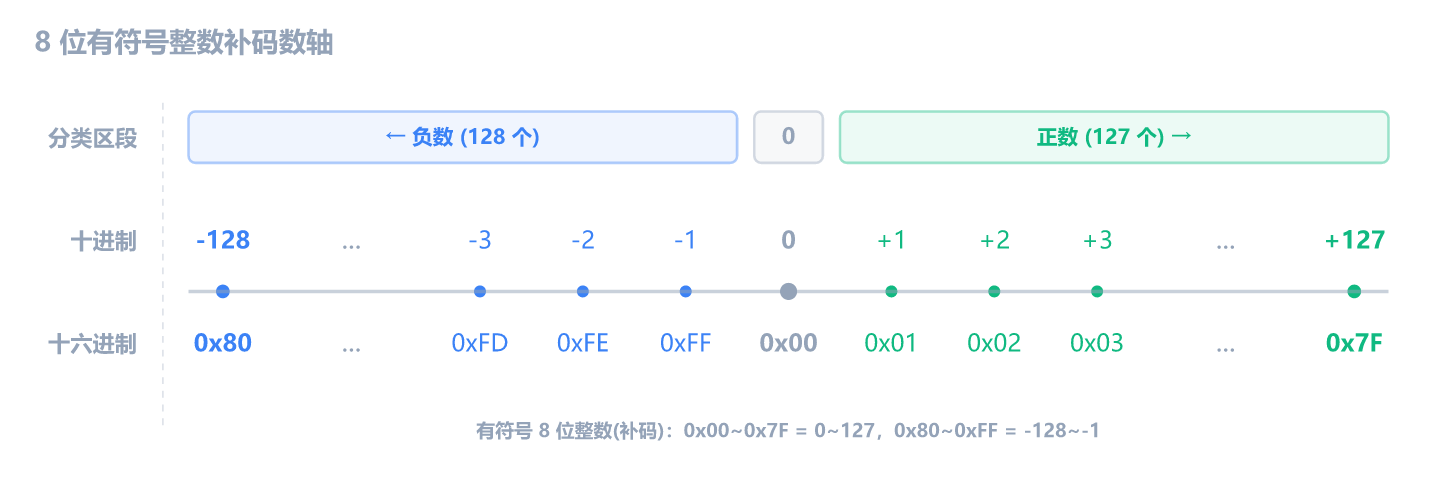
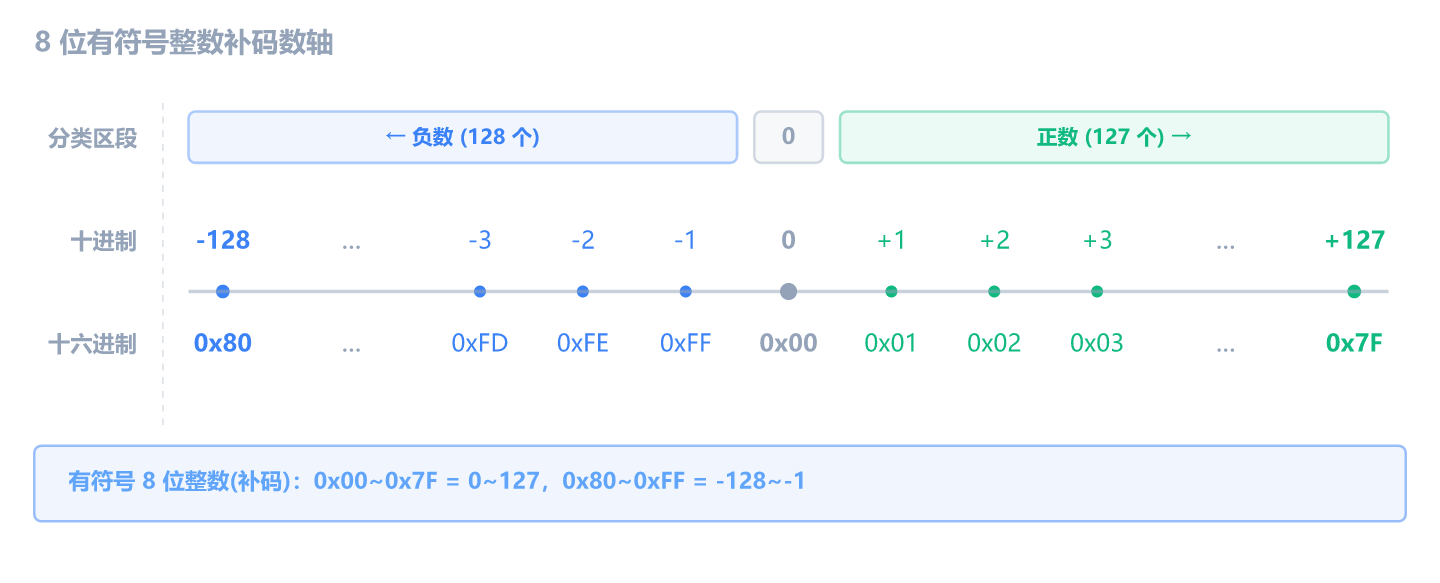
style: unify ch2 SVG bottom summary style with blue/yellow boxes

diff --git a/src/data/books/reverse-engineering/getting-started/asm-navigation.md b/src/data/books/reverse-engineering/getting-started/asm-navigation.md
@@ -119,11 +119,11 @@ mov      eax,       1
 
 x64dbg 有好几个窗口可以显示内存内容，同一个地址可以在不同窗口之间跳转：
 
-| 窗口     | 显示什么                | 怎么跳转                                                        |
-| -------- | ----------------------- | --------------------------------------------------------------- |
-| CPU 窗口 | 机器码反汇编成汇编指令  | 直接就在这，最常用的窗口                                        |
+| 窗口     | 显示什么                | 怎么跳转                                                                              |
+| -------- | ----------------------- | ------------------------------------------------------------------------------------- |
+| CPU 窗口 | 机器码反汇编成汇编指令  | 直接就在这，最常用的窗口                                                              |
 | 内存窗口 | 原始十六进制字节        | 在地址上右键 -> Follow in Memory / 在内存窗口按 <kbd>Ctrl</kbd>+<kbd>G</kbd> 输入地址 |
-| 堆栈窗口 | 以 ESP 为基准显示栈内容 | 在 ESP 寄存器上右键 -> Follow in Stack                          |
+| 堆栈窗口 | 以 ESP 为基准显示栈内容 | 在 ESP 寄存器上右键 -> Follow in Stack                                                |
 
 **实操试试**：在 CPU 窗口随便点击一行指令，看一下它的地址（比如 `00401000`）。然后切换到内存窗口，按 <kbd>Ctrl</kbd>+<kbd>G</kbd>，输入同一个地址，你会看到这行指令的机器码字节就躺在那。
 

diff --git a/src/data/books/reverse-engineering/getting-started/number-basics.md b/src/data/books/reverse-engineering/getting-started/number-basics.md
@@ -118,11 +118,11 @@ order: 2
 
 上面用 8 位讲的原理，对 16 位和 32 位完全一样—只是位数多了，范围更大：
 
-| 位数 | 最大无符号值 | 无符号范围         | 最大正数     | 最小负数     | 有符号范围                   |
-| ---- | ------------ | ------------------ | ------------ | ------------ | ---------------------------- |
-| 8    | `0xFF`       | `0 ~ 255`          | `0x7F`       | `0x80`       | `-128 ~ +127`                |
-| 16   | `0xFFFF`     | `0 ~ 65,535`       | `0x7FFF`     | `0x8000`     | `-32,768 ~ +32,767`          |
-| 32   | `0xFFFFFFFF` | `0 ~ 4,294,967,295`| `0x7FFFFFFF` | `0x80000000` | `-2,147,483,648 ~ +2,147,483,647` |
+| 位数 | 最大无符号值 | 无符号范围          | 最大正数     | 最小负数     | 有符号范围                        |
+| ---- | ------------ | ------------------- | ------------ | ------------ | --------------------------------- |
+| 8    | `0xFF`       | `0 ~ 255`           | `0x7F`       | `0x80`       | `-128 ~ +127`                     |
+| 16   | `0xFFFF`     | `0 ~ 65,535`        | `0x7FFF`     | `0x8000`     | `-32,768 ~ +32,767`               |
+| 32   | `0xFFFFFFFF` | `0 ~ 4,294,967,295` | `0x7FFFFFFF` | `0x80000000` | `-2,147,483,648 ~ +2,147,483,647` |
 
 32 位那个 `0xFFFFFFFF` ≈ 43 亿，看起来很大，但其实就是四个字节全填 F。在 x64dbg 里你看到的地址和 int 值都是 32 位的，所以这个范围你每天都会碰到。
 
